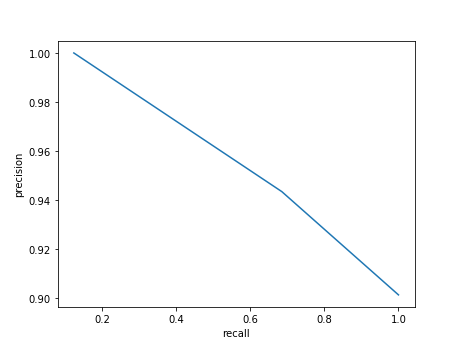
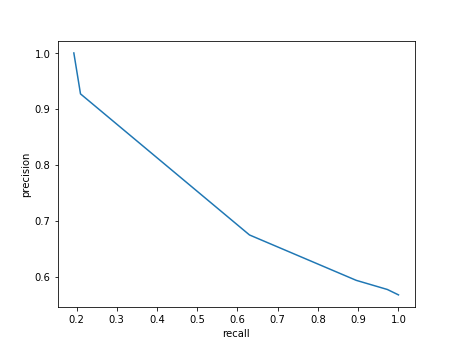
fixed precision bug

diff --git a/scripts/metric_analysis.py b/scripts/metric_analysis.py
@@ -79,8 +79,8 @@ def threshold_chart(cluster, score_matrix, thresholds):
         for threshold in thresholds:
             tm = threshold_matrix(threshold, score_matrix)
             TP, FP, TN, FN = find_pos_neg(true_matrices[cluster], tm)
-            p = precision(TP,FP,TN,FN)
-            r = recall(TP,FP,TN,FN)
+            p = precision(TP,FP)
+            r = recall(TP,FN)
             writer.writerow([threshold,TP,FP,TN,FN,p,r])
 
 def main():
@@ -92,8 +92,7 @@ def main():
         precision_recall_curve(key, wmd(clusters[key]))
 
 def full_data():
-
-    thresholds = thresholds = [0.76,0.78,0.8,0.82,0.84,0.86,0.88,0.9,0.92,0.94,0.96,0.98,1.0]
+    thresholds = [0.76,0.78,0.8,0.82,0.84,0.86,0.88,0.9,0.92,0.94,0.96,0.98,1.0]
     precisions = []
     recalls = []
     with open('../data/wmd_threshold_full_close.csv', 'w+') as csvfile:
@@ -111,9 +110,9 @@ def full_data():
                 FPs += FP
                 TNs += TN
                 FNs += FN
-            p = precision(TP,FP,TN,FN)
+            p = precision(TPs,FPs)
             precisions.append(p)
-            r = recall(TP,FP,TN,FN)
+            r = recall(TPs,FNs)
             recalls.append(r)
             writer.writerow([threshold,TPs,FPs,TNs,FNs,p,r])
     plt.xlabel('recall')
@@ -212,4 +211,4 @@ clusters = {
 ]}
 
 if __name__ == '__main__':
-    print(threshold_matrix(0.88, wmd(clusters['orlando'])))
+    full_data()
